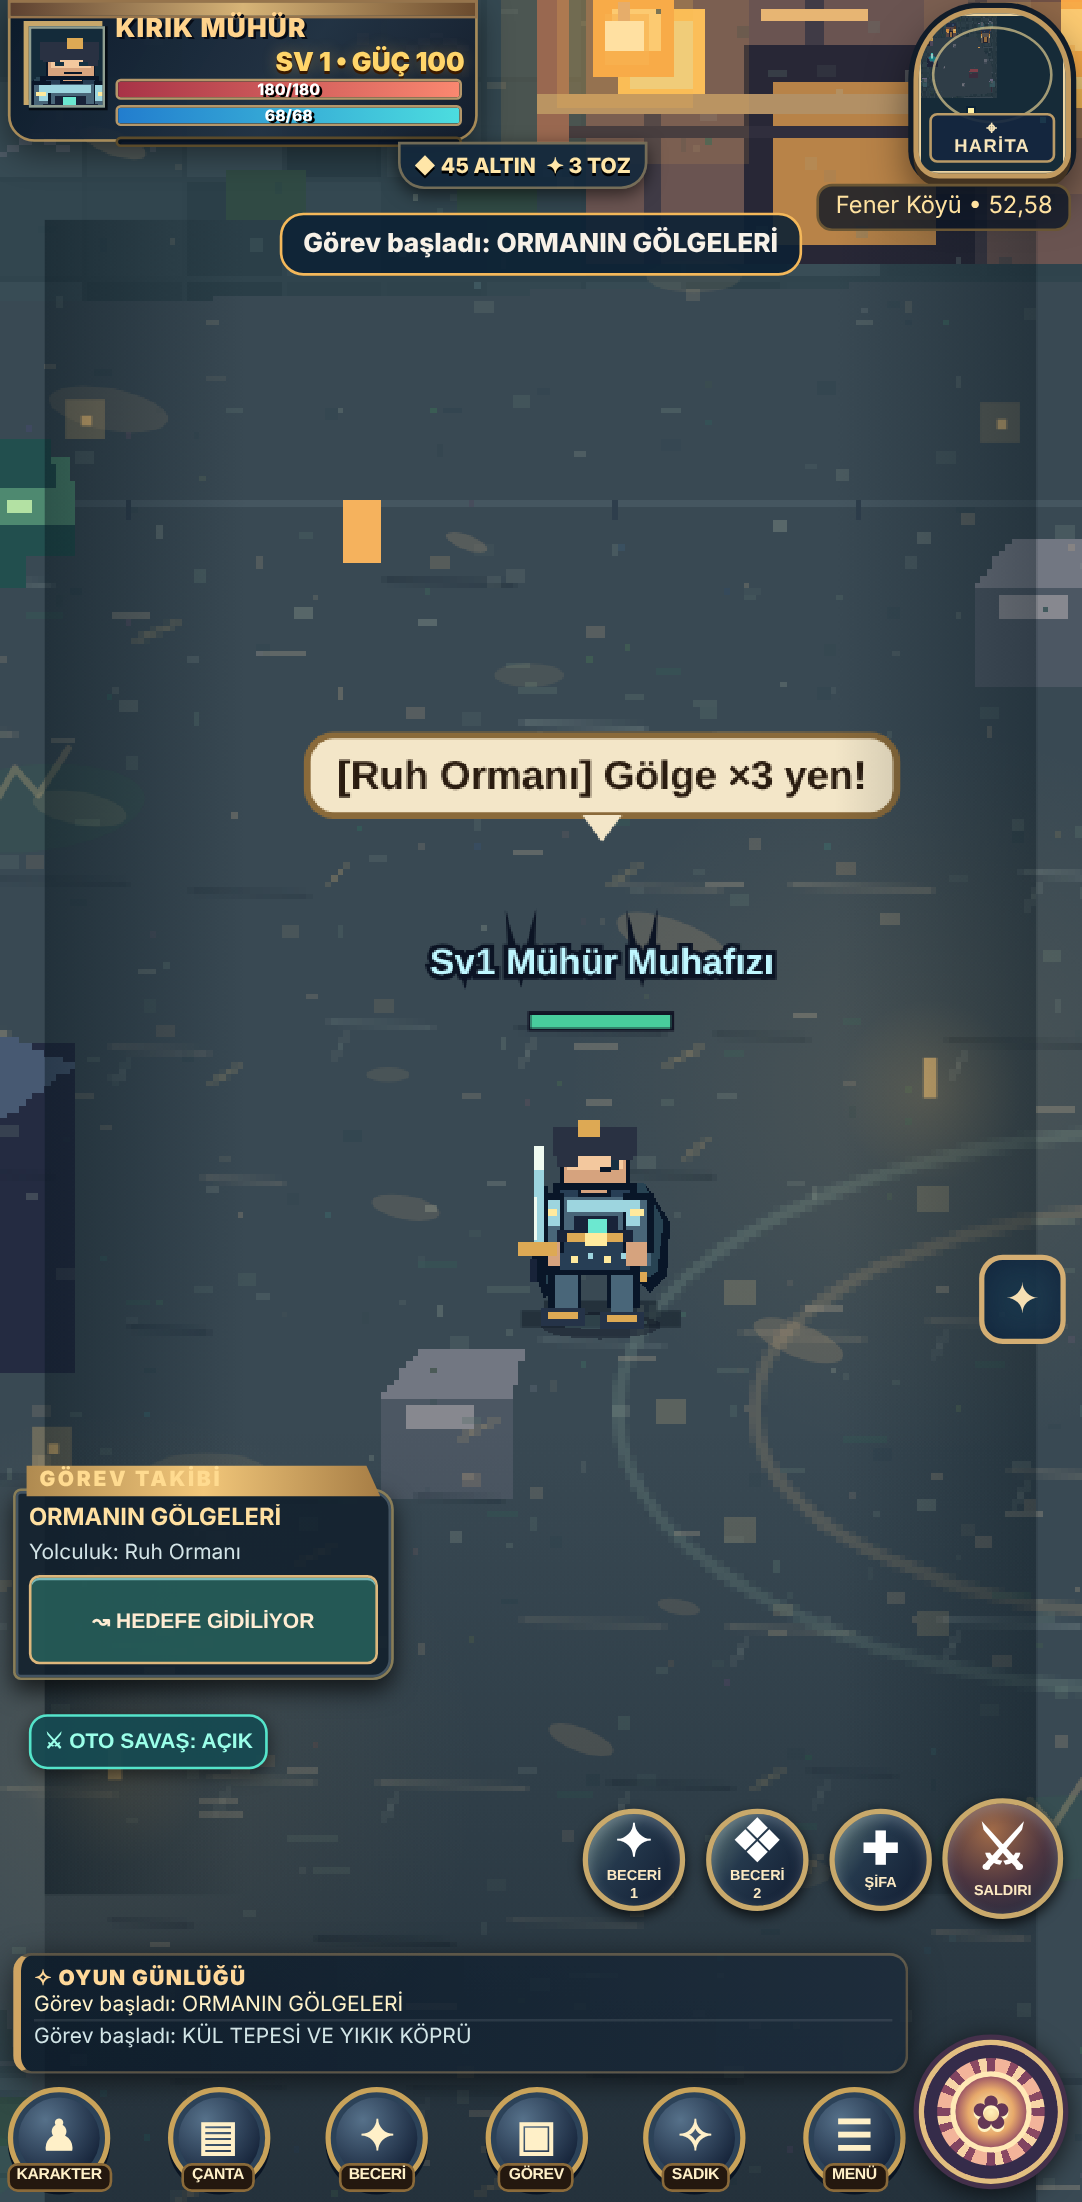
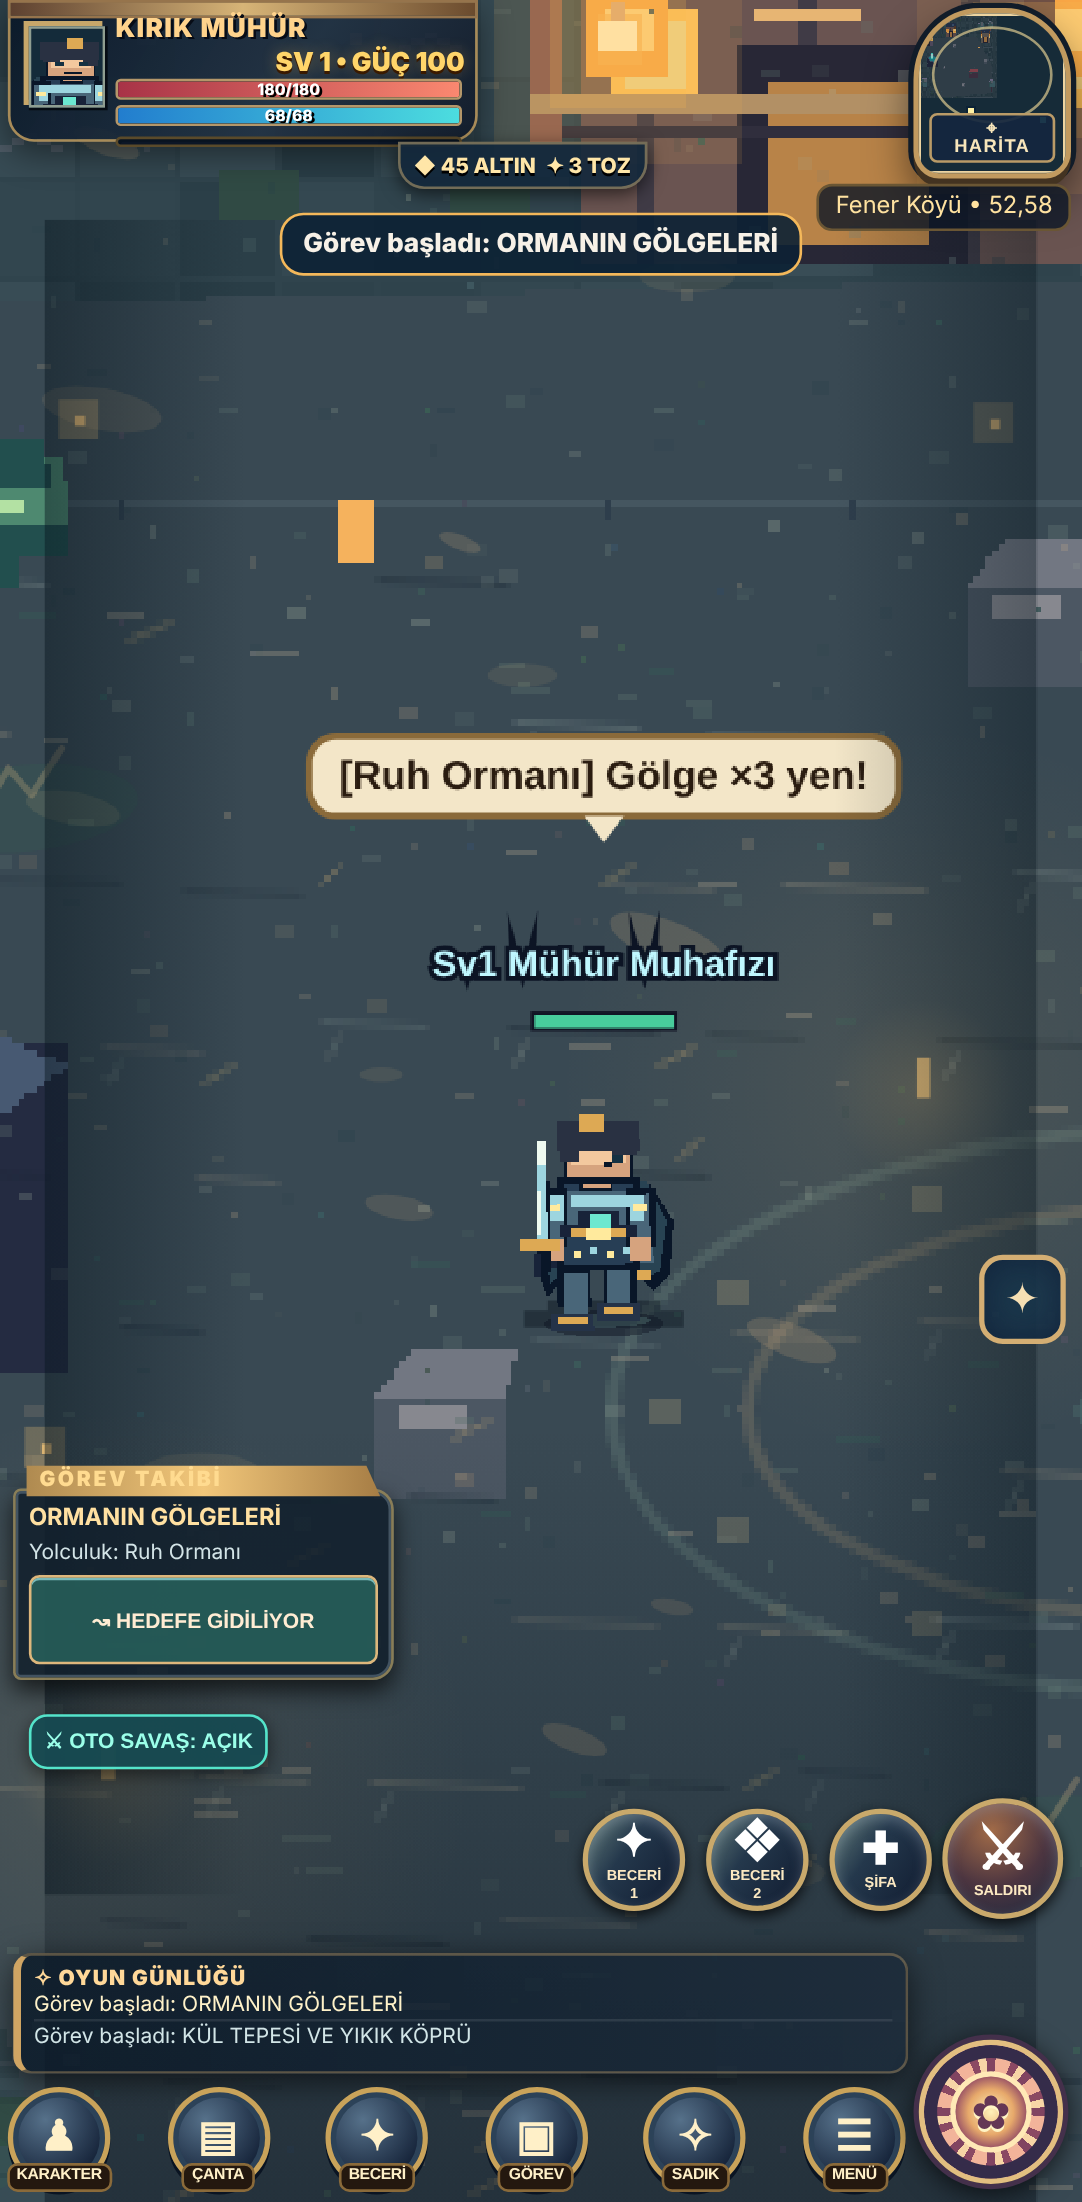
test(3.30): all regressions pass (3A 43/43, 3B 16/16, 3.27 8/8, 3.29 9/9, Android 56/56); rail touch area fix; reference report
Claude-Session: https://claude.ai/code/session_01FuznemPcECrsmhykmGfqTc

diff --git a/Kirik_Muhur_3_30_NPC_Efekt_TEST.html b/Kirik_Muhur_3_30_NPC_Efekt_TEST.html
@@ -442,6 +442,7 @@
 </style><style id="km330-reference">
 #app #level{color:#ffd56a!important;font-weight:900!important;font-size:10px!important;text-shadow:0 1px 0 #3a1a00,0 0 6px #ffb84a55}
 #app .topRail .railBtn{border-radius:50%!important;border:2px solid #c9a35a!important;background:radial-gradient(circle at 35% 30%,#56718a,#16243a 72%)!important;box-shadow:0 2px 0 #0a1422,inset 0 0 0 2px #2c4258!important}
+#app .topRail .railBtn::before{inset:-6px}
 #app .topRail .railBtn span{position:absolute;bottom:-3px;left:50%;transform:translateX(-50%);background:#24180f;border:1px solid #8a6a3a;border-radius:4px;padding:0 3px;white-space:nowrap;line-height:9px}
 .km330talk{display:grid;grid-template-columns:88px 1fr;gap:8px;align-items:end;margin:-2px 0 6px}
 #km330Npc{width:88px;height:110px;image-rendering:pixelated;background:radial-gradient(circle at 50% 70%,#3a5a6a,#0f1b2c 70%);border:2px solid #c9a35a;border-radius:10px}

diff --git a/testler/3E_3_30/patch330.py b/testler/3E_3_30/patch330.py
@@ -39,6 +39,7 @@ rep("for(const sh of km329Shots)sh.t+=dt;","km330Screen=Math.max(0,km330Screen-d
 rep('<style id="km321-character-portrait">','''<style id="km330-reference">
 #app #level{color:#ffd56a!important;font-weight:900!important;font-size:10px!important;text-shadow:0 1px 0 #3a1a00,0 0 6px #ffb84a55}
 #app .topRail .railBtn{border-radius:50%!important;border:2px solid #c9a35a!important;background:radial-gradient(circle at 35% 30%,#56718a,#16243a 72%)!important;box-shadow:0 2px 0 #0a1422,inset 0 0 0 2px #2c4258!important}
+#app .topRail .railBtn::before{inset:-6px}
 #app .topRail .railBtn span{position:absolute;bottom:-3px;left:50%;transform:translateX(-50%);background:#24180f;border:1px solid #8a6a3a;border-radius:4px;padding:0 3px;white-space:nowrap;line-height:9px}
 .km330talk{display:grid;grid-template-columns:88px 1fr;gap:8px;align-items:end;margin:-2px 0 6px}
 #km330Npc{width:88px;height:110px;image-rendering:pixelated;background:radial-gradient(circle at 50% 70%,#3a5a6a,#0f1b2c 70%);border:2px solid #c9a35a;border-radius:10px}

diff --git a/ASAMA_3_30_KUNGFU_SAGA_GORSEL_REFERANS_RAPORU.md b/ASAMA_3_30_KUNGFU_SAGA_GORSEL_REFERANS_RAPORU.md
@@ -51,10 +51,10 @@ Referans görselleri **depoya ve oyun paketine konmadı.** Yalnız incelemek iç
 | Paket | Sonuç |
 |---|---|
 | 3.30 yeni (`suite330.js`) | **6/6 PASS** |
-| 3A regresyonu | R3A |
-| 3B regresyonu | R3B |
-| 3.27 regresyonu | R327 |
-| 3.29 regresyonu | R329 |
-| Android emülasyonu | RAND |
+| 3A regresyonu | **43/43 PASS** |
+| 3B regresyonu | **16/16 PASS** |
+| 3.27 regresyonu | **8/8 PASS** |
+| 3.29 regresyonu | **9/9 PASS** |
+| Android emülasyonu | **56/56 PASS** (ilk koşuda 51/56: yuvarlak ikonların 2 px kenarlığı görünmez dokunma alanını 41 px’e düşürmüştü; alan genişletildi, yeniden koşu 56/56) |
 
 **T03 test düzeltmesi:** Yakınlaştırma 1,45'e çıktığından "sağa yürü" dokunuşu Bilge Işın'ın dokunma alanına düşüp konuşma başlatıyordu (oyunun doğru davranışı). Hedef NPC'den uzak bir noktaya alındı.
